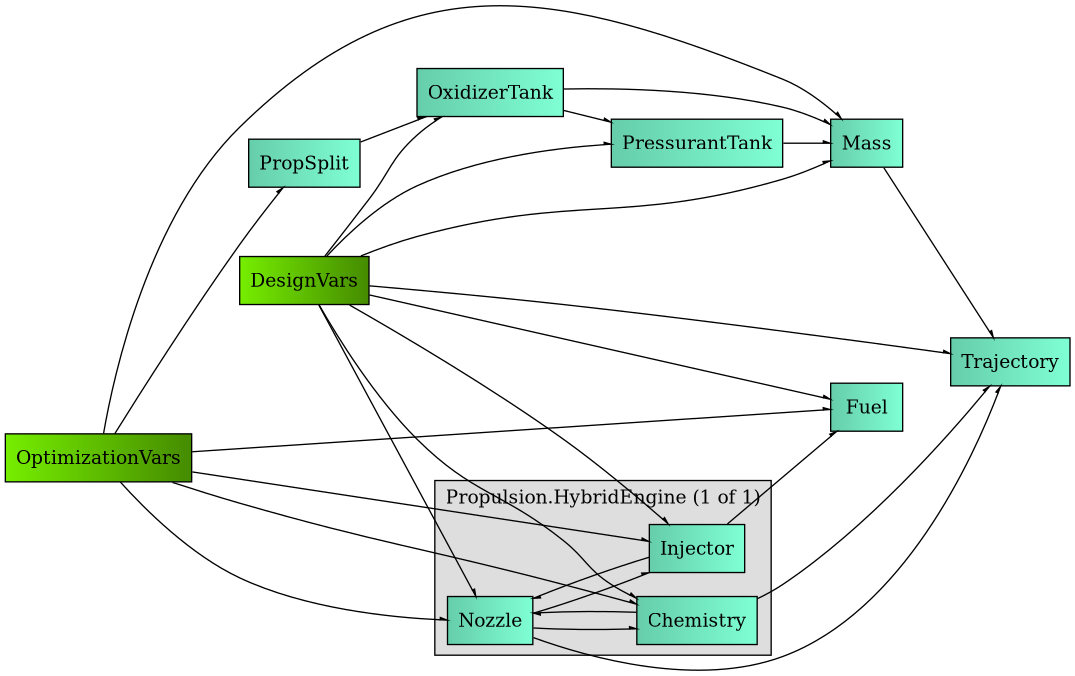
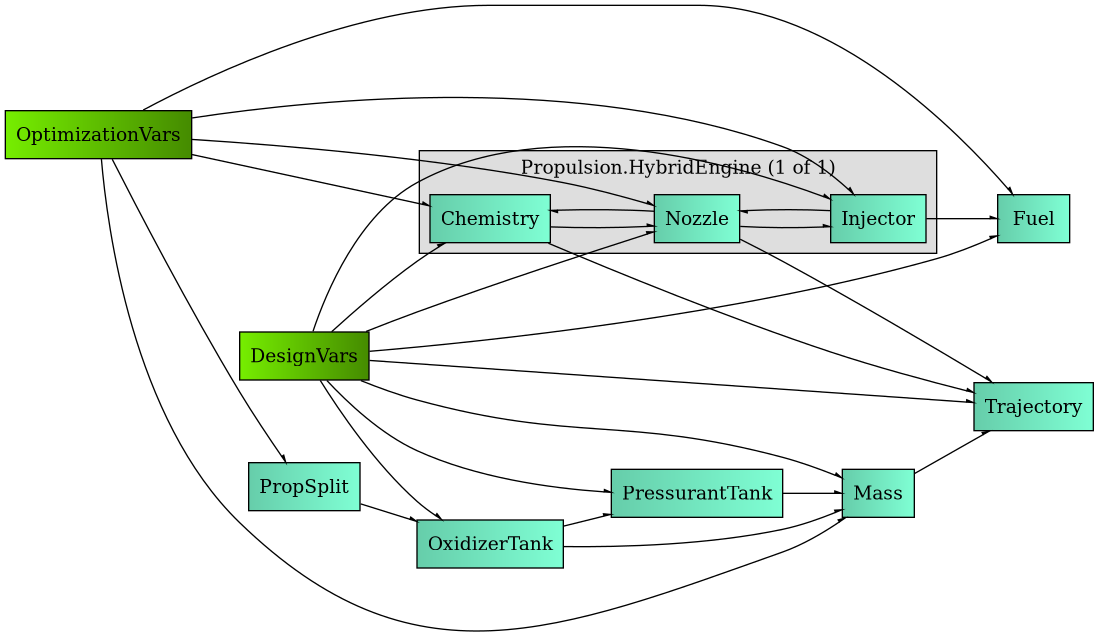
Restructuring problem printouts

diff --git a/solver.py b/solver.py
@@ -11,11 +11,6 @@ import os
 import numpy        as np
 import openmdao.api as om
 
-from scipy.integrate   import solve_ivp
-from scipy.interpolate import interp1d
-from scipy.constants   import g
-from openmdao.visualization.graph_viewer import GraphViewer
-
 import openmdao.utils.variable_table as vt
 import openmdao.core.system          as sys_mod
 
@@ -101,50 +96,14 @@ def main():
 		work_dir=work_dir,
 	)
 	prob_rocket.setup()
-	res = prob_rocket.run()
+	res_rocket = prob_rocket.run()
 
-	PRINT_FMT = "8.3f"
+	m_prop_opt   = res_rocket['m_prop_kg']
+	mr_opt       = res_rocket['mr']
+	a_inj_opt    = res_rocket['a_inj_mm2']
+	a_throat_opt = res_rocket['a_throat_cm2']
 
-	print("Optimizing the rocket...")
-	print("")
-	print(f"Optimized m_prop:     \t{res['m_prop_kg']:{PRINT_FMT}} kg")
-	print(f"Optimized A_inj:      \t{res['a_inj_mm2']:{PRINT_FMT}} mm²")
-	print(f"Optimized A_throat:   \t{res['a_throat_cm2']:{PRINT_FMT}} cm²")
-	print(f"Optimized MR:         \t{res['mr']:{PRINT_FMT}}")
-	print("")
-	print(f"Apogee:               \t{res['apogee_m']:{PRINT_FMT}} m")
-	print(f"Burn time:            \t{res['burn_time_s']:{PRINT_FMT}} s")
-	print(f"Liftoff thrust:       \t{res['thrust_N']:{PRINT_FMT}} N")
-	print(f"Liftoff Isp:          \t{res['isp_s']:{PRINT_FMT}} s")
-	print(f"Chamber pressure:     \t{res['p_chamber_bar']:{PRINT_FMT}} bar")
-	print(f"Injector ΔP:          \t{res['delta_p_bar']:{PRINT_FMT}} bar")
-	print("")
-	print(f"Dry mass:             \t{res['m_dry_kg']:{PRINT_FMT}} kg")
-	print(f"Total mass at liftoff:\t{res['m_initial_kg']:{PRINT_FMT}} kg")
-
-	# Dump all computed variables to an output file
-	with open("outputs/rocket.txt", mode="wt") as f:
-		prob_rocket.model.list_outputs(
-			val=True,
-			units=True,
-			hierarchical=True,
-			out_stream=f,
-		)
-
-	# Draw all the connectivity graphs
-	viewer = GraphViewer(prob_rocket.model)
-	for graph_type in ["dataflow", "tree", "cycle"]:
-		viewer.write_graph(
-			gtype=graph_type,
-			display=False,
-			show_vars=True,
-			outfile=f"figures/rocket_{graph_type}.png",
-		)
-
-	m_prop_opt   = res['m_prop_kg']
-	mr_opt       = res['mr']
-	a_inj_opt    = res['a_inj_mm2']
-	a_throat_opt = res['a_throat_cm2']
+	prob_rocket.report(res_rocket)
 	#endregion
 
 	print("--------")
@@ -161,44 +120,9 @@ def main():
 		a_throat_cm2=a_throat_opt,
 	)
 
-	res = prob_stand.run()
+	res_stand = prob_stand.run()
 
-	print("Simulating test stand...")
-	print("")
-	print(f"PT1 (N2O supply pressure):      \t{res['PT1_N2O_supply_bar']:{PRINT_FMT}} bar")
-	print(f"TC1 (N2O supply temperature):   \t{res['TC1_N2O_supply_K']:{PRINT_FMT}} K")
-	print("")
-	print(f"PT2 (run tank feed temperature):\t{res['PT2_run_tank_bar']:{PRINT_FMT}} bar")
-	print(f"TC2 (run tank liquid temp):     \t{res['TC2_run_liquid_K']:{PRINT_FMT}} K")
-	print("")
-	print(f"PT3 (chamber pressure):         \t{res['PT3_chamber_bar']:{PRINT_FMT}} bar")
-	print(f"TC3 (chamber flame temp):       \t{res['TC3_chamber_temp_K']:{PRINT_FMT}} K")
-	print("")
-	print(f"PT4 (N2 supply pressure):       \t{res['PT4_N2_supply_bar']:{PRINT_FMT}} bar")
-	print(f"TC4 (N2 supply pressure):       \t{res['TC4_run_dome_K']:{PRINT_FMT}} K")
-	print("")
-	print(f"ΔP:                             \t{res['delta_p_feed_bar']:{PRINT_FMT}} bar")
-	print(f"Thrust:                         \t{res['thrust_N']:{PRINT_FMT}} N")
-	print(f"Isp:                            \t{res['isp_s']:{PRINT_FMT}} s")
-
-	# Dump all computed variables to an output file
-	with open("outputs/teststand.txt", mode="wt") as f:
-		prob_stand.model.list_outputs(
-			val=True,
-			units=True,
-			hierarchical=True,
-			out_stream=f,
-		)
-
-	# Draw all the connectivity graphs
-	viewer = GraphViewer(prob_stand.model)
-	for graph_type in ["dataflow", "tree", "cycle"]:
-		viewer.write_graph(
-			gtype=graph_type,
-			display=False,
-			show_vars=True,
-			outfile=f"figures/teststand_{graph_type}.png",
-		)
+	prob_stand.report(res_stand)
 	#endregion
 #endregion
 

diff --git a/modules/BEARS_Rocket/prob_rocket.py b/modules/BEARS_Rocket/prob_rocket.py
@@ -1,7 +1,9 @@
 #region Imports
+import os
 import openmdao.api as om
 
-from openmdao.api      import Problem
+from openmdao.api import Problem
+from openmdao.visualization.graph_viewer import GraphViewer
 
 from ..BEARS_Atmo import BEARS_Atm
 from ..BEARS_Chem import Thermochemistry
@@ -159,3 +161,56 @@ class RocketLaunchProblem(Problem):
 				units="bar"
 			)[0],
 		}
+
+	def print_summary(self, res: dict):
+
+		FMT = "8.3f"
+
+		print("Optimized rocket parameters:")
+		print("")
+		print(f"Optimized m_prop:     \t{res['m_prop_kg']:{FMT}} kg")
+		print(f"Optimized A_inj:      \t{res['a_inj_mm2']:{FMT}} mm²")
+		print(f"Optimized A_throat:   \t{res['a_throat_cm2']:{FMT}} cm²")
+		print(f"Optimized MR:         \t{res['mr']:{FMT}}")
+		print("")
+		print(f"Apogee:               \t{res['apogee_m']:{FMT}} m")
+		print(f"Burn time:            \t{res['burn_time_s']:{FMT}} s")
+		print(f"Liftoff thrust:       \t{res['thrust_N']:{FMT}} N")
+		print(f"Liftoff Isp:          \t{res['isp_s']:{FMT}} s")
+		print(f"Chamber pressure:     \t{res['p_chamber_bar']:{FMT}} bar")
+		print(f"Injector ΔP:          \t{res['delta_p_bar']:{FMT}} bar")
+		print("")
+		print(f"Dry mass:             \t{res['m_dry_kg']:{FMT}} kg")
+		print(f"Total mass at liftoff:\t{res['m_initial_kg']:{FMT}} kg")
+
+	def print_parameters(self, path: str = "outputs/rocket.txt"):
+		"""Dump all computed variables to an output file"""
+
+		os.makedirs(os.path.dirname(path), exist_ok=True)
+		with open(path, mode="wt") as f:
+			self.model.list_outputs(
+				val=True,
+				units=True,
+				hierarchical=True,
+				out_stream=f,
+			)
+
+	def print_graphs(self, out_dir: str = "figures", prefix: str = "rocket"):
+		"""Draw all the connectivity graphs"""
+
+		os.makedirs(out_dir, exist_ok=True)
+		viewer = GraphViewer(self.model)
+		for gtype in ["dataflow", "tree", "cycle"]:
+			viewer.write_graph(
+				gtype=gtype,
+				display=False,
+				show_vars=True,
+				outfile=os.path.join(out_dir, f"{prefix}_{gtype}.png"),
+			)
+
+	def report(self, res: dict, out_txt: str = "outputs/rocket.txt"):
+		"""Print results and generate output artifacts"""
+
+		self.print_summary(res)
+		self.print_parameters(out_txt)
+		self.print_graphs()

diff --git a/modules/BEARS_Rocket/prob_teststand.py b/modules/BEARS_Rocket/prob_teststand.py
@@ -1,7 +1,9 @@
 #region Imports
+import os
 import openmdao.api as om
 
 from openmdao.api import Problem
+from openmdao.visualization.graph_viewer import GraphViewer
 
 from ..BEARS_Chem import Thermochemistry
 
@@ -86,3 +88,55 @@ class TestStandProblem(Problem):
 			"thrust_N":           thrust,
 			"isp_s":              isp,
 		}
+
+	def print_summary(self, res: dict):
+
+		FMT = "8.3f"
+
+		print("Simulating test stand:")
+		print("")
+		print(f"PT1 (N2O supply pressure):      \t{res['PT1_N2O_supply_bar']:{FMT}} bar")
+		print(f"TC1 (N2O supply temperature):   \t{res['TC1_N2O_supply_K']:{FMT}} K")
+		print("")
+		print(f"PT2 (run tank feed temperature):\t{res['PT2_run_tank_bar']:{FMT}} bar")
+		print(f"TC2 (run tank liquid temp):     \t{res['TC2_run_liquid_K']:{FMT}} K")
+		print("")
+		print(f"PT3 (chamber pressure):         \t{res['PT3_chamber_bar']:{FMT}} bar")
+		print(f"TC3 (chamber flame temp):       \t{res['TC3_chamber_temp_K']:{FMT}} K")
+		print("")
+		print(f"PT4 (N2 supply pressure):       \t{res['PT4_N2_supply_bar']:{FMT}} bar")
+		print(f"TC4 (N2 supply pressure):       \t{res['TC4_run_dome_K']:{FMT}} K")
+		print("")
+		print(f"ΔP:                             \t{res['delta_p_feed_bar']:{FMT}} bar")
+		print(f"Thrust:                         \t{res['thrust_N']:{FMT}} N")
+		print(f"Isp:                            \t{res['isp_s']:{FMT}} s")
+
+	def print_parameters(self, path: str = "outputs/rocket.txt"):
+		os.makedirs(os.path.dirname(path), exist_ok=True)
+		with open(path, mode="wt") as f:
+			self.model.list_outputs(
+				val=True,
+				units=True,
+				hierarchical=True,
+				out_stream=f,
+			)
+
+	def print_graphs(
+		self,
+		out_dir : str = "figures",
+		prefix  : str = "teststand",
+	):
+		os.makedirs(out_dir, exist_ok=True)
+		viewer = GraphViewer(self.model)
+		for gtype in ["dataflow", "tree", "cycle"]:
+			viewer.write_graph(
+				gtype=gtype,
+				display=False,
+				show_vars=True,
+				outfile=os.path.join(out_dir, f"{prefix}_{gtype}.png"),
+			)
+
+	def report(self, res: dict, out_txt: str = "outputs/teststand.txt"):
+		self.print_summary(res)
+		self.print_parameters(out_txt)
+		self.print_graphs()
